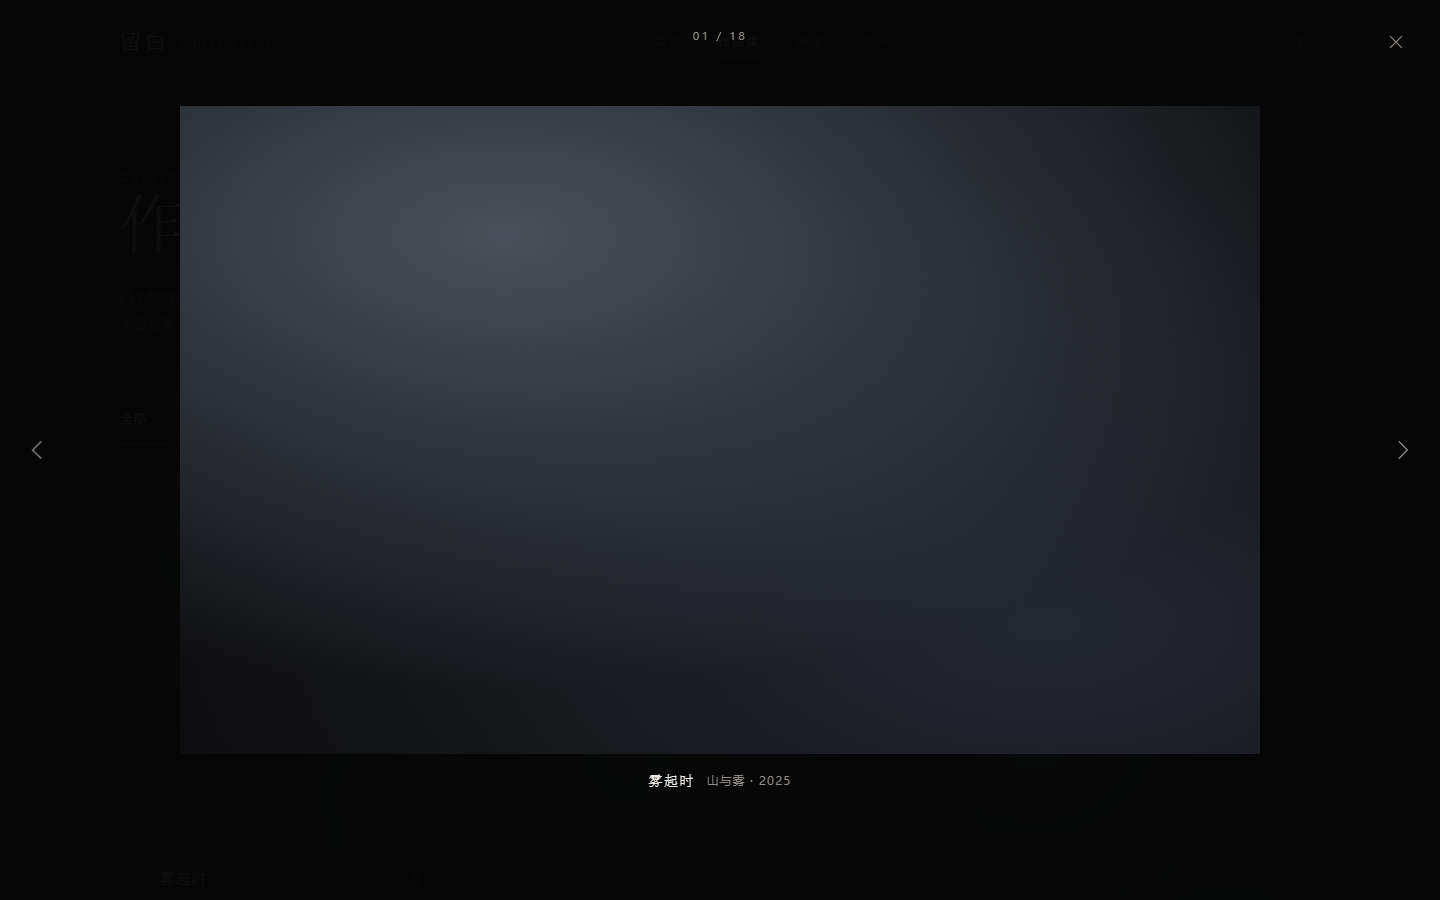
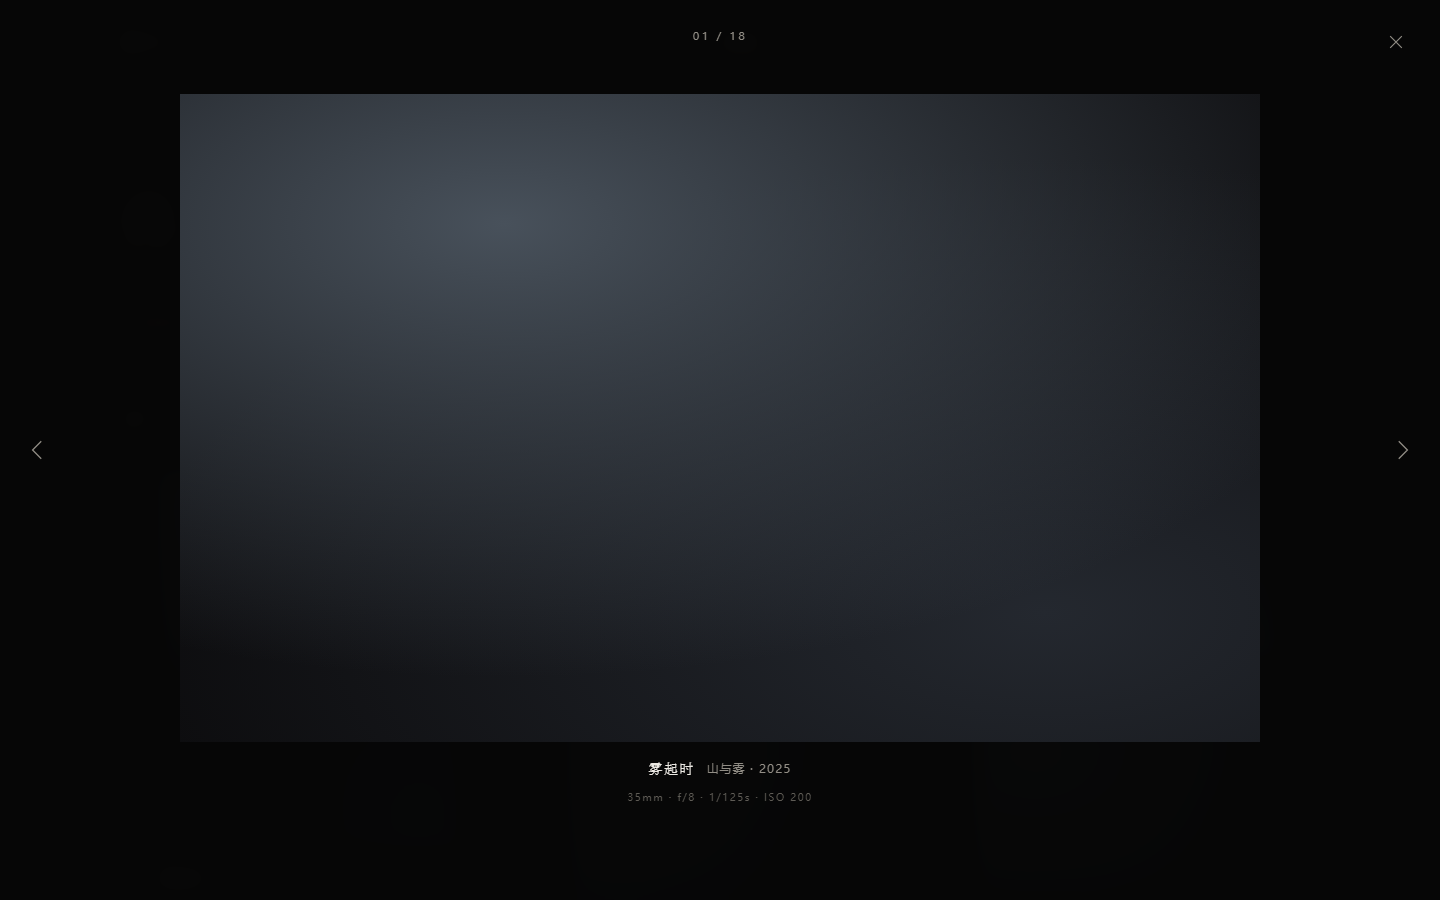
docs: 新增工作日志，记录每天的进度

Changed region(s): [[0.125, 0.0933, 0.8438, 0.1244], [0.4375, 0.8089, 0.875, 0.9022]]

diff --git a/docs/工作日志.md b/docs/工作日志.md
@@ -1,0 +1,35 @@
+# 工作日志
+
+这个站点的进度记录，一天一条。提交哈希可以用 `git log` 查。
+
+## 11/03
+
+- 仓库初始化，确定目录结构（`css/`、`js/`、`pages/`、`assets/`）。
+- `df28aae` docs: 更新首页预览截图
+- `f1bd0d7` chore: 忽略本地检查目录与临时截图
+
+## 11/04
+
+- 早期版本：增加搜索页与分类结果。
+- `2572b36` feat: 新增搜索页，支持单曲/歌手/歌单分类结果
+
+## 11/05
+
+- 早期版本：增加歌手页与专辑页。
+- `5df828c` feat: 新增歌手页与专辑页
+
+> 11/03–11/05 是仓库的早期版本，主题与现在不同。11/06 起整体重构为摄影集，旧页面在这次重构里移除。
+
+## 11/06
+
+- 把站点重构为「留白 WHITE SPACE」摄影集：重写设计变量、导航、页脚、灯箱、首页。
+- 新增作品集页（系列筛选 + 瀑布流 + 灯箱）、拍摄笔记页（构图 / 光线 / 参数，共 9 条）、关于页、系列详情页。
+- 作品集支持从本地添加照片（IndexedDB 保存，刷新后仍在，不上传任何服务器）。
+- 补 README、照片目录说明、单文件设计示例与各页面截图。
+- 当天 18 条提交，`feat` / `style` / `refactor` / `docs` / `chore` 都有。
+
+## 11/07
+
+- 给 18 张作品补拍摄参数（焦段、光圈、快门、ISO），显示在灯箱标题下方，和「拍摄笔记」里的参数一节对应。
+- 新增本工作日志，并在 README 里加上入口。
+- 待办：替换真实照片；教学页补「常见错误 + 一个小练习」。

diff --git a/README.md b/README.md
@@ -7,6 +7,8 @@
 - 直接双击 `index.html`，或用 VSCode 的 **Live Server** 右键打开。
 - 全部资源都是相对路径，放到 GitHub Pages / Gitee Pages 也能直接用。
 
+进度记录见 [docs/工作日志.md](docs/工作日志.md)。
+
 ## 页面
 
 | 文件 | 内容 |
